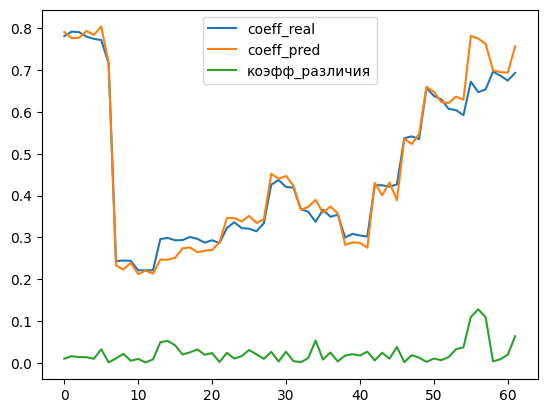
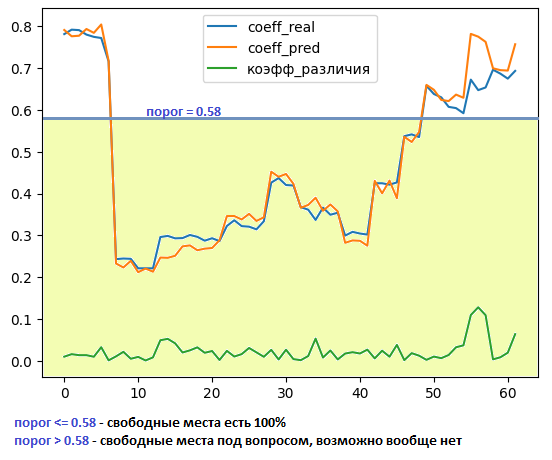
корректировка readme

diff --git a/README.md b/README.md
@@ -7,14 +7,15 @@
 
 
 
->Т.к. вида сверху нет, места не расчерчены и машины могут боле менее стоять как попало, будем действовать таким образом, для начала обучу семантическую сегментацию с помощью Unet. В которой будут две маски, одна маска - это площаь парковки без учета наличия машин, вторая - площадь парковки с удаленными из маски машинами. Да, еще есть проезд, который всегда есть, буду его учитывать в процентром соотношении от всей площади парковки (пропорцию найду, кагда вся парковка будет занята). В результате две маски будут сравниваться пропорционально, чем выше число от 0 до 1, тем свободней парковка. Назначаем порог, выше которого данные просто будут отправляться в БД, если порог будет низким, то данные будут передаваться в следующую можель. 
+>Т.к. вида сверху нет, места не расчерчены и машины могут боле менее стоять как попало, будем действовать таким образом, для начала обучу семантическую сегментацию с помощью Unet. В которой будут две маски, одна маска - это площаь парковки без учета наличия машин, вторая - пятна машин на парковке. Да, еще есть проезд, который всегда есть, буду его учитывать в процентром соотношении от всей площади парковки (пропорцию найду, кагда вся парковка будет занята). В результате две маски будут сравниваться пропорционально, чем ниже число от 0 до 1, тем свободней парковка. Назначаем порог, ниже которого данные просто будут отправляться в БД, если значение будет выше порогового, то данные будут передаваться в следующую можель. 
 >
 >Следующая модель: это будет модель детекции YOLOv8 c повернутыми Bbox-ами, которая будет обучена на почти полной парковке, с целью поиска конкретных свободных мест (конкретный подсчет). Т.к. имеетместо перспектива и места расположенные дальше смотрятся пеньше, поэтому возможно придется ввести коэффициент: разбить экран горизонтальными линиями и чем выше свободное место (выше - это значит дальше), тем выше коэффициент, т.к. удалением места визуально уменьшаются, ну здесь еще посмотрим. Возможно это будет и сегментация еще одна
 
+Для моей карты 5060ti установка torch + CUDA: **pip3 install torch torchvision torchaudio --index-url https://download.pytorch.org/whl/cu128**
 
 ![Пример](data_for_readme/segm_all.png)
 
-Результат обучения модели Unet можно видеть ниже:
+Результат обучения модели Unet можно видеть ниже (она нашла даже машины на парковке, которые я почему-то не разметил, точней меня выходит:)):
 ![Пример](data_for_readme/segm_res_all.png)
 
 По картинке видно, что модель Unet обучяется боле менее хорошо, в принципе такое качество достаточно, чтобы в первом приближении определить есть пустые парковочные места или их нет. 
@@ -24,3 +25,5 @@
 ![Пример](data_for_readme/output.png)
 
 Пороговым коэффициентом исходя из графика возьмем значение 0.58, т.е. значение ниже будет определять, что свободные места есть 100%, а если значение будет выше, то данные будут передаваться в следующую нейронку YOLOv8, которая будет обучена находить повернутые баундинбоксы (пустые места) и их количество.
+
+Теперть нужно собрать как можно разнообразные данные с почти полной парковкой
